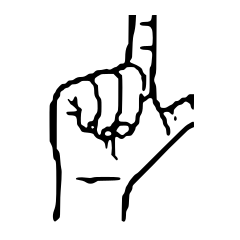
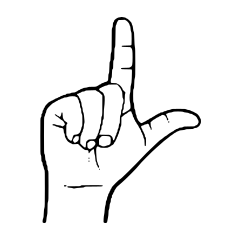
feat(signs): integracion de ilustracion oficial de L con pulgar completo y centrado perfecto

Changed region(s): [[0.1458, 0.0583, 0.8458, 0.9333]]

diff --git a/lengua-de-senas/src/lib/chileanVectorsData.ts b/lengua-de-senas/src/lib/chileanVectorsData.ts
@@ -102,11 +102,11 @@ export const CHILEAN_VECTOR_SIGNS: Record<string, ChileanVectorSign> = {
   },
   "L": {
     "char": "L",
-    "widthMm": 7.89,
-    "heightMm": 11.2,
-    "vectorWidth": 344,
-    "vectorHeight": 488,
-    "pathD": "M 191.850 33.293 L 191.500 66.586 188.699 71.984 C 185.536 78.079, 184.078 86.907, 184.031 100.250 C 183.994 110.698, 182.551 113, 176.039 113 C 172.744 113, 171.411 113.673, 168.117 117 C 165.661 119.481, 163.235 121, 161.729 121 C 160.394 121, 157.321 122.342, 154.900 123.982 C 150.146 127.204, 147.502 127.642, 143.586 125.857 C 141.613 124.958, 139.830 125.065, 135.223 126.357 C 132.003 127.261, 127.006 128, 124.119 128 C 118.212 128, 115.688 129.063, 111.849 133.166 C 109.706 135.456, 108.344 136, 104.747 136 C 101.578 136, 99.317 136.718, 96.898 138.492 C 91.217 142.658, 87.345 144, 81 144 C 74.655 144, 70.783 145.342, 65.102 149.508 C 62.623 151.326, 60.437 152, 57.016 152 C 52.812 152, 51.958 152.413, 48.737 156 C 45.629 159.463, 44.582 160, 40.944 160 C 37.119 160, 36.181 160.562, 30.516 166.250 C 26.901 169.880, 23.790 174.039, 23.095 176.170 C 22.436 178.189, 21.176 180.439, 20.294 181.170 C 17.845 183.201, 16 188.445, 16 193.373 C 16 196.963, 15.345 198.595, 12.571 201.915 C 10.004 204.987, 8.978 207.338, 8.491 211.260 C 8.134 214.142, 7.989 233.825, 8.171 255 L 8.500 293.500 11.912 300.500 C 15.049 306.937, 15.381 308.526, 16.042 320.253 C 16.738 332.618, 17.440 335.177, 20.711 337.278 C 23.515 339.079, 23.989 346.385, 23.994 387.914 C 24 433.869, 23.324 441.962, 18.407 454.770 C 14.248 465.604, 15.774 479.851, 21.109 479.985 C 22.399 480.017, 30.395 473.069, 31.630 470.843 C 32.593 469.106, 32.940 462.158, 32.973 444 C 32.997 430.525, 33.459 415.641, 33.999 410.925 C 34.539 406.209, 35.411 393.340, 35.936 382.326 C 36.723 365.795, 36.637 361.273, 35.438 356.401 C 34.640 353.155, 33.556 343.862, 33.029 335.750 C 32.054 320.757, 31.522 318.687, 27.351 313.673 L 25 310.847 25 255.358 C 25 215.570, 25.324 199.250, 26.147 197.684 C 26.777 196.483, 28.577 194.022, 30.147 192.215 C 32.231 189.816, 33 187.883, 33 185.047 C 33 179.557, 33.696 178.299, 38.105 175.821 C 40.247 174.617, 42 173.276, 42 172.842 C 42 171.678, 47.570 169, 49.990 169 C 51.139 169, 53.844 167.200, 56 165 C 59.554 161.375, 60.396 161, 64.993 161 C 70.394 161, 74.412 159.515, 79.898 155.492 C 82.902 153.289, 84.292 153.002, 91.898 153.015 C 101.349 153.032, 101.704 153.159, 104.431 157.500 C 105.467 159.150, 106.961 160.883, 107.751 161.352 C 110.314 162.873, 112 168.774, 112 176.224 C 112 184.987, 113.053 189.026, 116.716 194.312 C 119.238 197.951, 119.511 199.243, 119.850 209.152 C 120.316 222.765, 119.676 226.161, 115.815 230.558 C 113.910 232.728, 112.396 235.849, 111.862 238.711 C 110.751 244.657, 108.613 247, 104.300 247 C 99.319 247, 95.578 251.014, 96.317 255.566 C 97.140 260.637, 93.697 263.750, 90.939 260.427 C 90.221 259.562, 87.972 258.006, 85.940 256.970 C 83.909 255.933, 81.966 254.354, 81.623 253.461 C 80.315 250.051, 80.963 227.332, 82.472 223.721 C 83.835 220.460, 83.796 220.010, 81.946 217.658 C 80.847 216.261, 79.018 214.823, 77.883 214.463 C 74.867 213.506, 73 208.029, 73 200.143 C 73 188.587, 67.696 185.025, 64.469 194.413 C 62.357 200.557, 58.572 201.814, 55.179 197.500 C 54.097 196.125, 52.741 195, 52.165 195 C 50.044 195, 49.846 197.209, 51.778 199.324 C 52.872 200.521, 54.489 202.931, 55.372 204.679 C 56.255 206.428, 57.839 208.132, 58.892 208.466 C 61.243 209.212, 72 219.258, 72 220.707 C 72 223.428, 68.580 224.395, 58.776 224.447 C 50.438 224.491, 48.547 224.790, 47.649 226.205 C 46.793 227.553, 47.067 228.442, 48.958 230.455 C 50.908 232.531, 52.283 233.001, 56.424 233.006 C 59.216 233.009, 63.223 233.490, 65.330 234.075 C 70.162 235.416, 72 239.357, 72 248.373 C 72 254.177, 72.321 255.195, 75.263 258.716 C 77.057 260.864, 79.369 264.492, 80.400 266.778 C 82.620 271.702, 84.688 272.539, 96.863 273.444 C 104.937 274.044, 111 276.008, 111 278.023 C 111 278.557, 112.631 280.799, 114.624 283.005 C 117.243 285.905, 119.740 287.450, 123.635 288.582 C 129.220 290.206, 134.172 293.653, 136.242 297.358 C 136.900 298.536, 137.677 301.975, 137.969 305 C 138.419 309.656, 138.807 310.500, 140.500 310.500 C 142.230 310.500, 142.585 309.622, 143.133 304 C 143.884 296.291, 145.550 291.387, 147.697 290.563 C 150.463 289.501, 151.764 291.907, 152.413 299.280 C 153.250 308.800, 153.250 309.312, 152.436 317.711 L 151.737 324.923 156.118 329.357 C 158.528 331.796, 161.175 334.769, 162 335.964 C 163.014 337.432, 164.067 337.917, 165.250 337.461 C 167.900 336.439, 167.351 332.958, 163.993 329.493 L 160.987 326.391 160.518 306.584 C 160.225 294.221, 160.429 286.067, 161.060 284.889 C 162.453 282.285, 165.647 282.525, 169.182 285.500 C 173.721 289.319, 178.817 288.947, 182.864 284.500 C 185.699 281.384, 186.602 281, 191.090 281 C 193.863 281, 196.998 280.536, 198.058 279.969 C 201.054 278.366, 208 266.994, 208 263.693 C 208 261.550, 209.158 259.692, 212.394 256.642 C 216.773 252.513, 216.789 252.473, 217.304 244.184 C 217.725 237.396, 218.293 235.184, 220.394 232.152 C 223.379 227.846, 224.994 220.493, 225.015 211.114 C 225.033 203.460, 225.307 202.878, 230 200.523 C 231.925 199.557, 234.712 197.469, 236.194 195.883 C 239.246 192.616, 243.879 192.022, 246.429 194.571 C 247.333 195.475, 248 197.839, 248 200.137 C 248 204.475, 249.039 206.987, 252.609 211.279 C 253.880 212.808, 255.207 215.586, 255.557 217.452 C 255.959 219.593, 257.576 222.087, 259.940 224.209 C 263 226.956, 263.807 228.485, 264.348 232.569 C 264.815 236.087, 265.876 238.513, 267.931 240.764 C 270.108 243.146, 271.028 245.379, 271.547 249.531 C 272.074 253.747, 273.045 256.062, 275.542 259.050 C 278.305 262.357, 278.946 264.095, 279.491 269.749 C 280.308 278.224, 280.445 278.633, 282.921 279.958 C 286.202 281.714, 289.003 278.157, 288.989 272.250 C 288.971 264.558, 287.893 260.166, 285.414 257.687 C 282.537 254.810, 281 250.914, 281 246.500 C 281 241.951, 279.512 238.347, 275.965 234.307 C 274.334 232.450, 273 230.303, 273 229.537 C 273 226.760, 276.064 225, 280.897 225 C 284.723 225, 286.125 225.506, 288.076 227.592 C 293.795 233.706, 297 232.768, 297 224.979 C 297 220.576, 297.403 219.791, 302.149 214.944 C 306.261 210.745, 308.224 209.514, 311.899 208.829 C 315.233 208.208, 317.381 207.012, 319.699 204.486 C 323.531 200.311, 325.474 200.158, 330.610 203.627 C 335.326 206.812, 335.624 207.250, 336.408 212.152 C 337.062 216.240, 339.981 220, 342.500 220 C 343.778 220, 344 217.333, 344 202 L 344 184 338.164 184 C 332.621 184, 332.148 184.200, 328.737 188 C 325.525 191.578, 324.656 192, 320.496 192 C 316.658 192, 315.320 192.526, 312.833 195.013 C 308.932 198.914, 306.815 200, 303.113 200 C 300.790 200, 299.348 200.929, 296.857 204.029 C 295.076 206.245, 292.615 208.309, 291.388 208.617 C 290.161 208.925, 286.775 210.712, 283.862 212.589 C 279.566 215.357, 277.585 216, 273.355 216 C 266.781 216, 265 214.378, 265 208.389 C 265 204.523, 264.480 203.411, 261.137 200.134 L 257.274 196.348 256.761 180.424 C 256.289 165.753, 256.034 164.043, 253.524 158.691 C 250.473 152.186, 250.568 149.926, 254.333 139.500 C 256.461 133.607, 256.505 132.313, 256.802 66.750 L 257.104 -0 251.552 -0 C 246.163 -0, 246 0.081, 245.994 2.750 C 245.991 4.263, 245.520 7.187, 244.948 9.248 C 243.510 14.425, 240.086 16, 230.272 16 C 222.233 16, 218 17.552, 218 20.500 C 218 23.489, 222.228 25, 230.588 25 C 240.059 25, 243.005 26.599, 246.104 33.421 C 248.662 39.054, 248.916 67.942, 246.429 70.429 C 245.214 71.643, 242.635 72, 235.078 72 C 225.078 72, 219.540 73.151, 218.673 75.411 C 217.375 78.791, 222.483 81, 231.597 81 C 244.239 81, 247.737 84.671, 246.595 96.740 C 246.243 100.458, 245.684 106.632, 245.353 110.459 C 244.936 115.271, 244.095 118.307, 242.625 120.300 C 240.561 123.098, 240.508 123.979, 240.787 150.795 C 241.100 180.973, 240.862 182.599, 235.644 185.941 C 233.915 187.048, 231.684 188.527, 230.687 189.227 C 228.782 190.565, 228.594 190.416, 223.956 183.902 C 222.862 182.365, 221.815 181.924, 220.358 182.386 C 216.561 183.592, 215.853 187.339, 216.097 204.954 C 216.330 221.807, 215.773 225.106, 212.483 226.368 C 210.073 227.293, 208 233.329, 208 239.421 C 208 246.596, 206.459 249.725, 201.740 252.133 L 197.874 254.105 193.266 251.052 C 189.061 248.268, 187.933 248, 180.400 248 C 170.530 248, 169 246.984, 169 240.431 C 169 236.722, 169.607 235.334, 172.750 231.855 L 176.500 227.705 177.239 195.103 C 177.646 177.171, 177.704 157.432, 177.368 151.238 L 176.759 139.977 172.879 136.904 C 170.746 135.215, 169 133.264, 169 132.571 C 169 130.068, 172.623 128, 177.008 128 C 180.702 128, 181.841 127.472, 184.564 124.500 C 187.751 121.021, 187.821 121, 196.352 121 C 204.826 121, 204.977 121.044, 208.433 124.500 C 210.358 126.425, 212.414 128, 213.002 128 C 213.590 128, 214.985 130.137, 216.103 132.750 C 217.220 135.362, 219.059 138.488, 220.190 139.695 C 221.695 141.302, 222.066 142.600, 221.578 144.545 C 221.173 146.157, 221.576 148.941, 222.602 151.628 C 223.934 155.116, 224.169 157.955, 223.712 165.021 C 223.244 172.238, 223.424 174.282, 224.637 175.494 C 226.576 177.433, 227.337 177.391, 229.287 175.235 C 231.824 172.432, 232.949 165.433, 232.976 152.293 L 233 140.085 229.499 137.293 C 227.009 135.307, 225.564 133.008, 224.496 129.336 C 223.165 124.760, 222.300 123.698, 216.905 120.015 C 213.556 117.730, 207.370 114.653, 203.158 113.180 C 194.383 110.109, 193.309 108.278, 197.456 103.455 C 198.885 101.794, 200.030 99.186, 200.071 97.500 C 200.702 71.593, 202.012 51.713, 203.399 47 C 206.480 36.529, 208.034 26.601, 208.671 13.330 L 209.310 0 200.755 -0 L 192.200 -0 191.850 33.293 M 126.407 138.752 C 114.289 145.602, 113 146.887, 113 152.116 C 113 155.604, 113.591 156.785, 116.878 159.866 L 120.756 163.500 121.363 174.903 C 121.820 183.474, 122.409 186.920, 123.735 188.778 C 129.170 196.391, 128.989 195.560, 128.995 213.007 C 129.001 231.503, 128.422 234.616, 124.053 239.592 C 121.511 242.487, 120.990 243.943, 120.940 248.285 C 120.885 253.120, 120.112 258.354, 118.421 265.332 C 117.663 268.462, 121.256 277.501, 123.618 278.407 C 125.810 279.248, 128 276.096, 128 272.103 C 128 268.385, 131.105 264, 133.738 264 C 134.348 264, 136.250 262.819, 137.965 261.376 C 140.481 259.259, 141.763 258.862, 144.596 259.322 C 147.264 259.755, 148.576 259.424, 150.054 257.946 C 151.124 256.876, 152 255.515, 152 254.922 C 152 254.328, 153.730 252.130, 155.845 250.036 C 159.425 246.492, 159.733 245.722, 160.305 238.908 C 160.741 233.701, 161.509 230.852, 162.965 229.043 C 168.025 222.754, 167.827 224.184, 168.035 192.500 C 168.143 176, 168.180 159.228, 168.116 155.228 L 168 147.957 162.522 142.478 L 157.043 137 143.272 137.002 C 132.008 137.003, 128.937 137.322, 126.407 138.752 M 298.552 236.250 C 297.218 240.581, 297.193 242.879, 298.463 244.588 C 299.595 246.113, 300.249 246.277, 301.691 245.398 C 303.916 244.043, 304.418 241.230, 303.070 237.684 C 302.019 234.919, 299.234 234.035, 298.552 236.250 M 335.898 250.497 C 334.029 251.870, 330.501 253.954, 328.058 255.128 C 324.886 256.653, 308.736 272.067, 271.558 309.052 C 242.926 337.536, 217.925 362.406, 216 364.318 C 214.075 366.231, 211.100 368.496, 209.389 369.352 C 207.678 370.208, 204.978 372.519, 203.389 374.489 C 201.800 376.459, 198.863 379.967, 196.862 382.285 C 194.861 384.603, 192.505 388.228, 191.626 390.339 C 190.747 392.451, 188.949 395.460, 187.632 397.026 C 186.142 398.796, 184.823 402.218, 184.144 406.072 C 183.544 409.482, 182.368 413.223, 181.533 414.386 C 180.697 415.549, 179.223 417.598, 178.257 418.941 C 176.701 421.102, 176.462 424.605, 176.170 449.578 L 175.839 477.774 178.074 479.340 C 183.031 482.811, 186 477.335, 186 464.723 C 186 457.574, 186.334 456.160, 189.208 451.137 C 192.314 445.708, 192.433 445.068, 192.958 430.965 C 193.420 418.542, 193.794 415.990, 195.500 413.608 C 199.413 408.145, 200.997 404.450, 200.998 400.778 C 201 397.885, 201.794 396.216, 204.569 393.278 C 207.857 389.798, 237.761 359.728, 250.887 346.703 C 253.974 343.640, 261.900 335.423, 268.500 328.444 C 275.100 321.464, 283.127 313.222, 286.337 310.127 C 289.547 307.032, 299.672 297.207, 308.837 288.294 C 318.002 279.380, 327.075 270.594, 329 268.769 C 330.925 266.944, 335.080 264.337, 338.233 262.975 L 343.966 260.500 343.983 254.250 C 343.999 248.350, 343.868 248, 341.648 248 C 340.354 248, 337.767 249.124, 335.898 250.497 M 170.437 258.750 C 164.258 265.668, 161.892 271, 165.001 271 C 165.434 271, 167.258 272.373, 169.054 274.050 C 175.382 279.962, 178.685 280.458, 182.583 276.084 C 184.012 274.480, 186.452 272.641, 188.005 271.998 C 191.423 270.582, 193.367 266.358, 192.420 262.404 C 191.218 257.385, 190.395 257, 180.878 257 C 173.685 257, 171.703 257.332, 170.437 258.750 M 105.357 259.513 C 104.796 260.975, 106.531 264, 107.931 264 C 108.309 264, 109.474 263.374, 110.521 262.608 C 112.138 261.426, 112.224 260.975, 111.090 259.608 C 109.405 257.578, 106.120 257.524, 105.357 259.513 M 139 272 C 134.479 276.521, 137.788 281.509, 144.784 280.721 C 150.151 280.116, 152.489 278.086, 151.654 274.756 C 150.509 270.194, 142.541 268.459, 139 272 M 108.607 377.706 C 103.458 379.086, 101.469 379.121, 92.872 377.983 C 80.124 376.296, 69.500 377.439, 69.500 380.497 C 69.500 382.232, 70.594 382.661, 77.829 383.762 C 82.409 384.459, 87.509 385.811, 89.160 386.765 C 97.267 391.449, 98.779 391.997, 103.609 391.998 C 107.498 392, 110.126 391.224, 114.609 388.754 L 120.500 385.508 144.500 384.989 C 168.815 384.464, 173 383.804, 173 380.500 C 173 377.024, 169.090 376.504, 141.500 376.314 C 119.610 376.162, 113.385 376.426, 108.607 377.706"
+    "widthMm": 11.26,
+    "heightMm": 14.5,
+    "vectorWidth": 556,
+    "vectorHeight": 716,
+    "pathD": "M 279.500 7 C 278.400 7.473, 275.986 7.891, 274.136 7.930 C 267.774 8.063, 256 16.250, 256 20.541 C 256 21.723, 255.100 23.505, 254 24.500 C 252.372 25.973, 252 27.580, 252 33.131 C 252 38.187, 251.484 40.799, 250.004 43.226 C 248.099 46.349, 248.007 48.288, 248.004 85.300 C 248 120.088, 247.822 124.430, 246.279 127.300 C 244.977 129.723, 244.468 133.656, 244.185 143.500 C 243.889 153.811, 243.469 156.883, 242.156 158.352 C 240.782 159.888, 240.415 163.398, 240 178.953 C 239.609 193.596, 239.172 198.096, 238 199.504 C 236.906 200.819, 236.453 204.141, 236.326 211.769 C 236.163 221.605, 235.994 222.397, 233.506 224.993 C 231.798 226.776, 229.439 227.946, 226.852 228.293 C 224.648 228.589, 222.057 229.544, 221.094 230.415 C 220.131 231.287, 218.219 232, 216.846 232 C 215.472 232, 213.292 233.125, 212 234.500 C 210.708 235.875, 208.856 237, 207.885 237 C 206.913 237, 205.812 237.496, 205.437 238.102 C 205.062 238.708, 203.348 239.860, 201.628 240.662 C 199.908 241.464, 197.375 242.759, 196 243.540 C 194.170 244.580, 190.286 244.915, 181.500 244.791 C 172.099 244.659, 168.695 244.988, 165.782 246.311 C 163.737 247.240, 159.912 248.003, 157.282 248.007 C 154.193 248.011, 151.438 248.717, 149.500 250 C 147.850 251.093, 145.557 251.990, 144.405 251.993 C 143.253 251.997, 141.495 252.900, 140.500 254 C 139.505 255.100, 137.713 256, 136.519 256 C 135.325 256, 133.292 257.125, 132 258.500 C 130.708 259.875, 128.978 261, 128.154 261 C 127.331 261, 125.859 261.723, 124.883 262.606 C 123.699 263.677, 120.934 264.282, 116.589 264.419 C 112.106 264.561, 109.489 265.152, 108.207 266.313 C 106.894 267.501, 104.569 268, 100.346 268 C 95.255 268, 93.997 268.375, 92.019 270.480 C 90.346 272.261, 89.037 272.796, 87.375 272.379 C 85.923 272.015, 83.797 272.581, 81.663 273.899 C 79.793 275.055, 77.374 276, 76.287 276 C 75.200 276, 73.495 276.900, 72.500 278 C 71.505 279.100, 69.690 280, 68.467 280 C 67.245 280, 65.677 280.684, 64.983 281.521 C 64.289 282.357, 61.772 283.532, 59.391 284.132 C 57.009 284.732, 54.542 285.847, 53.908 286.611 C 53.274 287.375, 52.196 288, 51.512 288 C 50.829 288, 49.126 288.900, 47.727 290 C 46.329 291.100, 44.529 292, 43.727 292 C 42.926 292, 41.126 292.900, 39.727 294 C 38.329 295.100, 36.569 296, 35.817 296 C 33.609 296, 20 310.298, 20 312.619 C 20 313.758, 19.100 315.505, 18 316.500 C 16.900 317.495, 16 319.295, 16 320.500 C 16 321.705, 15.100 323.505, 14 324.500 C 12.606 325.761, 12 327.580, 12 330.500 C 12 333.486, 11.397 335.236, 9.901 336.589 C 8.252 338.082, 7.910 339.292, 8.304 342.233 C 8.685 345.073, 8.287 346.637, 6.653 348.714 C 4.502 351.450, 4.500 351.506, 4.500 413.020 C 4.500 469.973, 4.631 474.789, 6.250 477.259 C 7.597 479.315, 8 482.053, 8 489.150 C 8 497.250, 8.265 498.653, 10.181 500.692 C 11.778 502.393, 12.380 504.322, 12.432 507.904 C 12.476 510.897, 13.132 513.513, 14.124 514.647 C 15.016 515.666, 15.975 518.656, 16.255 521.291 C 16.534 523.925, 17.511 526.907, 18.425 527.917 C 19.938 529.589, 20.081 535.343, 20.023 592.265 C 19.967 646.719, 19.758 655.178, 18.404 657.893 C 17.296 660.113, 16.690 665.394, 16.295 676.255 C 15.920 686.589, 15.324 691.983, 14.446 693 C 13.734 693.825, 12.839 697.267, 12.458 700.650 C 11.801 706.473, 11.898 706.887, 14.276 708.445 C 17.127 710.313, 21.004 709.764, 23.347 707.160 C 24.308 706.092, 25.001 702.647, 25.288 697.500 C 25.534 693.100, 26.470 687.039, 27.368 684.032 C 28.624 679.825, 29 674.263, 29 659.908 C 29 644.670, 29.314 640.450, 30.712 636.876 C 32.244 632.958, 32.427 627.256, 32.462 582.357 C 32.497 535.973, 32.369 532.068, 30.750 530.278 C 29.433 528.821, 29 526.604, 29 521.306 C 29 515.784, 28.570 513.723, 27 511.727 C 25.575 509.916, 25 507.670, 25 503.921 C 25 500.311, 24.450 498.051, 23.250 496.726 C 21.949 495.291, 21.363 492.399, 20.968 485.467 C 20.578 478.611, 19.982 475.637, 18.718 474.241 C 17.133 472.489, 17.001 467.562, 17.007 410.421 C 17.013 350.316, 17.071 348.412, 19 345.500 C 20.093 343.850, 20.990 341.185, 20.993 339.579 C 20.997 337.972, 21.728 335.853, 22.618 334.869 C 23.508 333.886, 24.466 331.045, 24.747 328.557 C 25.027 326.068, 25.874 323.520, 26.628 322.894 C 27.383 322.267, 28 321.141, 28 320.390 C 28 318.530, 46.651 300, 48.523 300 C 49.347 300, 52.261 298.425, 55 296.500 C 57.739 294.575, 60.589 293, 61.335 293 C 62.080 293, 63.505 292.100, 64.500 291 C 65.495 289.900, 67.305 289, 68.520 289 C 69.736 289, 71.827 288.137, 73.168 287.082 C 74.509 286.027, 77.254 284.855, 79.268 284.478 C 81.281 284.100, 83.450 283.163, 84.087 282.395 C 84.804 281.531, 87.211 281, 90.411 281 C 93.603 281, 97.076 280.236, 99.500 279 C 104.590 276.405, 122.962 276.045, 125 278.500 C 125.685 279.325, 127 280, 127.922 280 C 130.228 280, 132 281.975, 132 284.545 C 132 285.725, 132.900 287.505, 134 288.500 C 135.315 289.690, 136 291.580, 136 294.020 C 136 296.216, 136.816 298.768, 138 300.273 C 139.492 302.169, 140 304.330, 140 308.773 C 140 313.216, 140.508 315.377, 142 317.273 C 143.558 319.254, 144 321.330, 144 326.673 C 144 331.619, 144.557 334.569, 146 337.261 C 147.795 340.611, 148 342.903, 148 359.668 C 148 374.836, 147.719 378.653, 146.505 379.994 C 145.683 380.903, 144.722 383.863, 144.370 386.573 C 144.019 389.283, 143.166 392.175, 142.477 393 C 141.787 393.825, 140.922 395.916, 140.555 397.646 C 139.418 402.998, 131.653 408, 124.480 408 C 122.226 408, 119.645 408.563, 118.744 409.250 C 116.980 410.597, 114.338 417.129, 113.033 423.372 C 111.564 430.403, 108.689 430.660, 101.957 424.363 C 98.376 421.013, 97 418.975, 97 417.018 C 97 415.529, 96.100 413.495, 95 412.500 C 93.140 410.816, 93 409.420, 93 392.500 C 93 375.449, 93.128 374.194, 95.044 372.460 C 97.895 369.880, 97.132 366.816, 93.143 364.824 C 88.842 362.676, 85.208 359.255, 84.399 356.592 C 84.049 355.441, 83.160 353.810, 82.422 352.966 C 81.556 351.975, 80.978 348.081, 80.790 341.966 C 80.523 333.263, 80.339 332.500, 78.500 332.500 C 76.822 332.500, 76.420 333.333, 76 337.684 C 75.665 341.161, 74.733 343.746, 73.170 345.533 L 70.840 348.199 68.606 346.099 C 67.377 344.945, 65.682 344, 64.841 344 C 63.999 344, 62.495 343.100, 61.500 342 C 60.505 340.900, 59.140 340, 58.467 340 C 57.795 340, 56.689 339.330, 56.009 338.511 C 55.329 337.692, 54.373 337.270, 53.883 337.572 C 52.922 338.166, 57.693 345, 59.069 345 C 60.482 345, 68.344 350.667, 71.437 353.915 C 73.052 355.612, 74.758 357, 75.228 357 C 76.215 357, 82.353 361.179, 82.803 362.158 C 82.969 362.520, 84.438 364.829, 86.067 367.288 C 89.445 372.387, 89.219 373.833, 84.480 377.448 C 80.567 380.432, 79.303 380.584, 76.854 378.368 C 75.682 377.308, 72.505 376.558, 67.776 376.225 C 63.506 375.925, 59.060 374.946, 57.015 373.857 C 52.040 371.206, 46 371.559, 46 374.500 C 46 375.993, 48.193 377, 51.447 377 C 52.703 377, 54.874 377.900, 56.273 379 C 57.671 380.100, 60.249 381, 62 381 C 63.751 381, 66.329 381.900, 67.727 383 C 69.449 384.354, 71.784 385, 74.961 385 C 81.709 385, 84.219 387.890, 84.380 395.848 C 84.463 399.973, 85.035 402.382, 86.250 403.724 C 87.354 404.944, 88.005 407.288, 88.015 410.079 C 88.023 412.510, 88.680 415.625, 89.476 417 C 90.271 418.375, 91.233 420.175, 91.613 421 C 93.939 426.042, 98.651 432.027, 101.090 433.037 C 102.654 433.685, 104.454 434.842, 105.089 435.608 C 105.725 436.373, 106.906 437, 107.715 437 C 108.523 437, 110.334 437.904, 111.740 439.010 C 114.046 440.824, 115.211 440.955, 123.723 440.357 L 133.151 439.694 141.434 447.934 C 152.146 458.590, 157.080 461.547, 162.664 460.658 C 166.723 460.011, 169 462.388, 169 467.270 C 169 471.921, 170.515 472.821, 172.388 469.283 C 174.914 464.509, 185.022 456.277, 186.918 457.449 C 187.347 457.715, 187.977 461.551, 188.318 465.974 C 188.660 470.398, 189.492 475.026, 190.168 476.258 C 190.845 477.491, 191.663 483.084, 191.987 488.687 C 192.426 496.288, 193.010 499.354, 194.288 500.766 C 195.306 501.890, 196 504.286, 196 506.674 C 196 509.420, 196.632 511.262, 198 512.500 C 199.100 513.495, 200 515.310, 200 516.533 C 200 519.068, 202.398 521.490, 203.956 520.527 C 205.668 519.469, 205.140 514.437, 203.126 512.614 C 202.096 511.682, 201.009 509.102, 200.711 506.882 C 200.413 504.661, 199.526 502.092, 198.740 501.172 C 197.771 500.038, 196.925 494.512, 196.112 484 C 194.250 459.930, 194.567 453.445, 197.786 449.750 C 199.785 447.455, 200.634 447.530, 206.212 450.500 C 210.425 452.743, 212.070 453, 222.204 452.996 C 231.729 452.993, 234.013 452.679, 236.774 450.996 C 238.575 449.898, 240.643 449, 241.369 449 C 242.096 449, 243.494 448.111, 244.477 447.026 C 245.460 445.940, 247.217 444.764, 248.382 444.413 C 251.320 443.528, 256 438.966, 256 436.987 C 256 436.086, 257.125 434.292, 258.500 433 C 259.875 431.708, 261 429.890, 261 428.961 C 261 428.031, 261.900 426.126, 263 424.727 C 264.100 423.329, 265 421.304, 265 420.227 C 265 419.151, 265.900 417.126, 267 415.727 C 268.100 414.329, 269 412.166, 269 410.921 C 269 409.676, 269.713 407.869, 270.585 406.906 C 271.456 405.943, 272.431 403.209, 272.750 400.831 C 273.069 398.452, 274.154 395.155, 275.161 393.503 C 276.168 391.851, 276.994 389.036, 276.996 387.246 C 276.998 385.457, 277.900 382.314, 279 380.261 C 280.718 377.055, 281 374.619, 281 362.969 L 281 349.408 287.929 343.204 C 291.740 339.792, 295.699 337, 296.726 337 C 297.754 337, 300.312 335.240, 302.412 333.090 C 308.425 326.932, 316 326.597, 316 332.488 C 316 333.721, 316.900 335.874, 318 337.273 C 319.119 338.695, 320 341.330, 320 343.253 C 320 345.420, 320.739 347.359, 322 348.500 C 323.100 349.495, 324 351.305, 324 352.520 C 324 353.736, 324.900 355.874, 326 357.273 C 327.100 358.671, 328 360.462, 328 361.253 C 328 362.043, 328.900 363.505, 330 364.500 C 331.100 365.495, 332 366.875, 332 367.565 C 332 368.256, 333.800 371.098, 336 373.881 C 338.200 376.664, 340 379.677, 340 380.576 C 340 381.476, 341.125 383.548, 342.500 385.182 C 343.875 386.816, 345 388.739, 345 389.454 C 345 390.170, 345.675 391.315, 346.500 392 C 347.325 392.685, 348 394.470, 348 395.967 C 348 397.465, 348.900 399.505, 350 400.500 C 351.100 401.495, 352.003 403.253, 352.007 404.405 C 352.010 405.557, 352.907 407.850, 354 409.500 C 355.093 411.150, 355.991 413.850, 355.997 415.500 C 356.003 417.150, 356.906 419.973, 358.004 421.774 C 359.625 424.433, 360 426.814, 360 434.442 C 360 444.550, 360.488 447, 362.500 447 C 364.605 447, 365 444.484, 365 431.073 C 365 419.580, 364.801 418.130, 363 416.500 C 361.685 415.310, 361 413.420, 361 410.980 C 361 408.784, 360.184 406.232, 359 404.727 C 357.900 403.329, 357 401.313, 357 400.247 C 357 399.182, 356.100 397.495, 355 396.500 C 353.900 395.505, 353 393.695, 353 392.480 C 353 391.264, 352.159 389.197, 351.130 387.885 C 348.565 384.613, 347.559 379.598, 349.206 378.290 C 349.917 377.724, 352.142 376.965, 354.150 376.604 C 356.157 376.243, 358.349 375.284, 359.022 374.474 C 359.695 373.663, 361.556 373, 363.158 373 C 364.760 373, 367.111 372.318, 368.382 371.485 C 370.499 370.098, 370.917 370.147, 373.347 372.058 C 375.109 373.444, 376 375.102, 376 376.996 C 376 378.578, 377.113 381.169, 378.500 382.818 C 379.992 384.591, 381 387.041, 381 388.894 C 381 390.988, 381.489 392, 382.500 392 C 384.494 392, 384.552 384.269, 382.575 382.079 C 381.686 381.094, 381.037 377.731, 380.851 373.139 L 380.553 365.778 386.026 360.921 C 389.037 358.249, 392.129 356.049, 392.897 356.032 C 393.665 356.014, 396.216 354.425, 398.565 352.500 C 400.915 350.575, 403.704 349, 404.763 349 C 405.823 349, 407.505 348.100, 408.500 347 C 409.495 345.900, 411.287 345, 412.481 345 C 413.675 345, 415.664 343.922, 416.901 342.605 C 418.787 340.598, 419.826 340.295, 423.325 340.734 C 427.470 341.253, 432 344.275, 432 346.519 C 432 347.163, 432.900 348.505, 434 349.500 C 435.212 350.597, 436 352.580, 436 354.533 C 436 358.330, 438.024 360.576, 439.824 358.776 C 441.620 356.980, 441.228 353.516, 439 351.500 C 437.900 350.505, 437 348.470, 437 346.980 C 437 345.489, 436.056 343.070, 434.903 341.604 C 433.214 339.457, 433.043 338.653, 434.026 337.469 C 434.696 336.661, 436.035 336, 437 336 C 437.965 336, 439.264 335.387, 439.886 334.637 C 440.508 333.888, 444.002 332.969, 447.650 332.595 C 451.298 332.221, 455.219 331.259, 456.364 330.458 C 459.469 328.283, 489.092 328.359, 492.436 330.550 C 493.743 331.407, 498.088 332.345, 502.151 332.649 C 507.039 333.015, 510.407 333.835, 512.210 335.099 C 513.700 336.145, 516.486 337, 518.400 337 C 520.315 337, 522.188 337.496, 522.563 338.102 C 522.938 338.708, 524.652 339.864, 526.372 340.671 C 528.092 341.478, 530.683 342.780, 532.129 343.565 C 535.032 345.142, 540 351.163, 540 353.105 C 540 353.785, 540.715 355.133, 541.589 356.098 C 543.775 358.513, 545.064 364.782, 543.910 367.383 C 541.492 372.830, 539.219 375.516, 536.780 375.806 C 535.365 375.975, 533.416 376.987, 532.449 378.056 C 530.831 379.844, 529.240 380.001, 512.595 380.007 C 496.220 380.013, 494.215 380.202, 491.500 382 C 489.497 383.326, 486.807 383.989, 483.405 383.993 C 479.695 383.998, 477.848 384.511, 476.609 385.880 C 475.673 386.913, 473.187 388.034, 471.084 388.371 C 468.981 388.707, 466.696 389.661, 466.007 390.491 C 465.319 391.321, 464.214 392, 463.552 392 C 462.890 392, 461.292 393.125, 460 394.500 C 458.708 395.875, 457.050 397, 456.315 397 C 455.581 397, 452.739 398.575, 450 400.500 C 447.261 402.425, 444.727 404, 444.368 404 C 444.009 404, 441.345 406.025, 438.448 408.500 C 435.551 410.975, 432.560 413, 431.802 413 C 431.043 413, 427.381 415.700, 423.664 419 C 419.946 422.300, 416.256 425, 415.465 425 C 414.673 425, 408.370 430.453, 401.459 437.118 C 394.548 443.782, 385.230 452.670, 380.753 456.868 C 370.272 466.693, 362.432 474.545, 352.606 485.056 C 326.081 513.431, 278.787 560, 276.496 560 C 273.988 560, 248 585.966, 248 588.472 C 248 589.692, 247.100 591.505, 246 592.500 C 244.900 593.495, 244 595.080, 244 596.020 C 244 596.961, 243.100 598.874, 242 600.273 C 240.900 601.671, 240 603.687, 240 604.753 C 240 605.818, 239.100 607.505, 238 608.500 C 236.842 609.548, 236 611.580, 236 613.326 C 236 614.985, 235.259 617.161, 234.354 618.161 C 233.449 619.161, 232.486 622.347, 232.213 625.240 C 231.937 628.176, 230.897 631.554, 229.859 632.885 C 228.571 634.537, 228 636.928, 228 640.667 C 228 643.635, 227.279 647.737, 226.398 649.782 C 225.447 651.989, 224.477 658.377, 224.012 665.500 C 223.582 672.100, 222.743 679.020, 222.148 680.878 C 221.553 682.736, 220.767 689.268, 220.400 695.395 C 219.868 704.294, 220.014 706.766, 221.123 707.687 C 223.458 709.625, 227.369 710.086, 230 708.734 C 231.984 707.714, 232.633 706.422, 233.142 702.475 C 233.496 699.739, 234.508 694.350, 235.392 690.500 C 236.277 686.651, 237 679.547, 237 674.715 C 237 668.487, 237.448 665.245, 238.541 663.578 C 239.487 662.134, 240.297 657.807, 240.640 652.363 C 241.044 645.954, 241.725 642.750, 243.099 640.790 C 244.445 638.873, 245 636.361, 245 632.195 C 245 627.488, 245.420 625.930, 247.099 624.411 C 248.737 622.928, 249.089 621.703, 248.704 618.831 C 248.306 615.860, 248.672 614.717, 250.605 612.901 C 251.922 611.664, 253 609.675, 253 608.481 C 253 607.287, 253.900 605.495, 255 604.500 C 256.100 603.505, 257 601.690, 257 600.467 C 257 599.245, 257.701 597.663, 258.558 596.952 C 259.415 596.241, 260.708 594.273, 261.433 592.580 C 263.245 588.343, 268.724 582.791, 280.500 573.257 C 292.762 563.331, 336.723 519.193, 340.517 513 C 344.312 506.803, 386.933 463.930, 401 452.160 C 407.325 446.867, 415.875 439.331, 420 435.412 C 424.125 431.493, 429.315 427.153, 431.534 425.767 C 433.752 424.382, 438.027 421.055, 441.034 418.374 C 446.687 413.333, 452.464 409, 453.530 409 C 453.866 409, 456.276 407.200, 458.885 405 C 461.494 402.800, 464.318 401, 465.159 401 C 466.001 401, 467.505 400.100, 468.500 399 C 469.495 397.900, 471.158 397, 472.195 397 C 473.233 397, 475.300 396.142, 476.790 395.094 C 478.776 393.697, 481.839 393.058, 488.257 392.704 C 493.917 392.391, 497.884 391.651, 499.472 390.610 C 501.375 389.363, 504.552 389, 513.557 389 C 523.670 389, 525.516 388.740, 527.727 387 C 529.319 385.748, 531.784 385, 534.320 385 C 537.083 385, 539.095 384.320, 540.648 382.861 C 541.900 381.684, 543.919 380.222, 545.134 379.611 C 546.348 379, 547.774 377.150, 548.302 375.500 C 548.829 373.850, 549.990 371.665, 550.880 370.645 C 552.026 369.333, 552.500 366.837, 552.500 362.121 C 552.500 356.718, 552.073 354.908, 550.250 352.591 C 549.013 351.017, 548 348.996, 548 348.098 C 548 346.126, 539.337 336, 537.650 336 C 536.992 336, 534.125 334.466, 531.277 332.590 C 528.430 330.715, 524.615 328.857, 522.800 328.460 C 520.985 328.064, 518.427 326.898, 517.115 325.870 C 515.721 324.777, 513.123 324, 510.862 324 C 508.734 324, 505.314 323.100, 503.261 322 C 499.839 320.166, 497.619 320, 476.500 320 C 455.381 320, 453.161 320.166, 449.739 322 C 447.686 323.100, 444.318 324.003, 442.254 324.007 C 440.189 324.010, 437.150 324.907, 435.500 326 C 433.850 327.093, 431.107 327.990, 429.405 327.993 C 427.587 327.997, 425.563 328.825, 424.500 330 C 423.239 331.394, 421.420 332, 418.500 332 C 415.580 332, 413.761 332.606, 412.500 334 C 411.505 335.100, 409.705 336, 408.500 336 C 407.295 336, 405.495 336.900, 404.500 338 C 403.505 339.100, 401.915 340, 400.967 340 C 400.020 340, 398.627 340.745, 397.872 341.655 C 397.118 342.565, 395.150 343.942, 393.500 344.715 C 388.963 346.840, 386.208 348.502, 384.178 350.339 C 383.169 351.252, 381.444 352, 380.346 352 C 379.247 352, 377.292 353.125, 376 354.500 C 374.708 355.875, 373.050 357, 372.315 357 C 371.581 357, 368.739 358.575, 366 360.500 C 363.261 362.425, 360.402 364, 359.645 364 C 358.889 364, 357.197 364.831, 355.885 365.848 C 354.573 366.864, 352.191 368.015, 350.591 368.406 C 348.011 369.038, 347.079 368.522, 342.341 363.843 C 339.404 360.942, 337 357.724, 337 356.692 C 337 355.660, 336.100 353.671, 335 352.273 C 333.831 350.787, 333 348.216, 333 346.088 C 333 344.084, 332.217 341.332, 331.261 339.973 C 330.199 338.463, 329.290 334.681, 328.925 330.260 C 328.530 325.463, 327.742 322.373, 326.593 321.102 C 325.261 319.631, 324.805 317.099, 324.632 310.227 C 324.469 303.773, 323.930 300.543, 322.703 298.670 C 321.237 296.432, 321 293.177, 321 275.258 C 321 257.045, 321.219 254.136, 322.750 251.973 C 324.189 249.939, 324.555 246.838, 324.808 234.500 C 325.034 223.458, 325.562 218.313, 326.808 215 C 328.313 210.997, 328.498 205.148, 328.484 162 C 328.471 123.638, 328.180 112.559, 327.088 109 C 326.181 106.043, 325.501 96.578, 325.104 81.401 C 324.626 63.115, 324.191 57.931, 323.016 56.517 C 322.118 55.436, 321.276 51.431, 320.882 46.367 C 320.507 41.544, 319.578 37.005, 318.688 35.647 C 317.840 34.352, 316.821 31.564, 316.425 29.452 C 315.871 26.497, 314.114 24.043, 308.803 18.806 C 305.008 15.063, 301.094 12, 300.106 12 C 299.118 12, 297.544 11.154, 296.609 10.120 C 295.515 8.912, 293.047 8.065, 289.704 7.751 C 286.842 7.481, 283.825 7.009, 283 6.700 C 282.175 6.392, 280.600 6.527, 279.500 7 M 281.798 16.746 L 271.097 17.067 268.210 21.344 C 266.622 23.697, 265.045 27.337, 264.704 29.435 C 264.364 31.532, 263.418 33.986, 262.602 34.887 C 261.363 36.256, 261.068 42.361, 260.810 72.013 C 260.534 103.555, 260.305 107.856, 258.750 110.700 C 257.264 113.417, 256.999 116.666, 256.993 132.200 C 256.987 148.780, 256.800 150.782, 255 153.500 C 253.272 156.108, 253.012 158.209, 253.007 169.595 C 253.001 181.243, 252.787 182.882, 251.076 184.431 C 249.397 185.951, 249.110 187.866, 248.826 199.485 C 248.565 210.144, 248.170 213.165, 246.842 214.648 C 245.046 216.655, 243.936 228.514, 245.336 230.750 C 245.865 231.596, 248.963 232, 254.924 232 C 261.961 232, 264.209 232.371, 266.115 233.848 C 267.427 234.864, 269.680 235.983, 271.122 236.334 C 274.918 237.260, 285 249.260, 285 252.853 C 285 254.055, 287.046 256.651, 290 259.195 C 295.027 263.524, 295.974 265.626, 293.853 267.747 C 293.093 268.507, 292.672 274.435, 292.603 285.340 C 292.514 299.506, 292.257 302.055, 290.750 303.722 C 289.400 305.215, 289 307.431, 289 313.421 C 289 319.670, 288.610 321.680, 287 323.727 C 285.097 326.147, 284.158 333.825, 285.590 335.257 C 286.185 335.851, 294.074 332.002, 296.953 329.713 C 297.804 329.036, 300.147 327.650, 302.159 326.633 C 304.171 325.616, 307.306 323.248, 309.125 321.371 C 312.386 318.006, 312.427 317.848, 312.124 309.832 C 311.954 305.363, 311.187 299.634, 310.419 297.103 C 308.456 290.637, 308.506 270.175, 310.494 266.364 C 311.533 264.372, 311.990 260.391, 311.994 253.288 C 311.998 245.785, 312.505 241.672, 313.901 237.788 C 315.355 233.743, 315.972 228.269, 316.526 214.500 C 317.276 195.846, 317.232 187.184, 316.379 185.804 C 316.105 185.362, 308.089 185, 298.563 185 C 285.414 185, 280.980 184.681, 280.146 183.676 C 277.768 180.810, 281.041 180, 295 180 C 303.674 180, 309.004 179.596, 309.716 178.884 C 310.330 178.270, 311.838 177.258, 313.068 176.634 C 318.075 174.094, 319.244 167.898, 319.213 144.050 C 319.183 121.492, 318.353 116.114, 314.226 111.750 C 311.660 109.036, 311.463 109, 299.063 108.986 C 285.476 108.972, 282 108.465, 282 106.500 C 282 104.510, 285.500 104.028, 300.050 104.014 C 309.239 104.004, 313.986 103.614, 314.800 102.800 C 315.656 101.944, 315.998 95.707, 315.994 81.050 C 315.989 64.166, 315.703 59.965, 314.392 57.500 C 313.499 55.819, 312.560 50.874, 312.258 46.256 C 311.921 41.108, 311.208 37.588, 310.359 36.883 C 309.612 36.263, 309 34.861, 309 33.767 C 309 30.341, 303.001 22.338, 298.008 19.102 C 295.375 17.396, 293.058 16.096, 292.860 16.212 C 292.662 16.329, 287.684 16.569, 281.798 16.746 M 234.852 238.577 C 233.985 239.444, 231.301 240.403, 228.888 240.708 C 226.474 241.013, 223.825 241.844, 223 242.554 C 222.175 243.263, 220.150 244.173, 218.500 244.575 C 216.850 244.976, 214.427 246.136, 213.115 247.152 C 211.803 248.169, 210.186 249, 209.520 249 C 208.051 249, 205 252.225, 205 253.778 C 205 255.030, 211.040 260.988, 212.317 260.995 C 214.065 261.005, 220 266.326, 220 267.883 C 220 268.789, 220.984 271.323, 222.186 273.515 C 224.177 277.145, 224.351 278.737, 224.137 291.399 C 224.009 299.044, 223.258 308.944, 222.470 313.399 C 221.622 318.191, 221.029 328.175, 221.018 337.842 C 221.002 352.654, 220.813 354.423, 219 356.727 C 217.393 358.770, 217 360.784, 217 366.980 C 217 373.420, 216.671 374.988, 215 376.500 C 213.415 377.935, 213 379.580, 213 384.433 C 213 389.318, 212.596 390.902, 211 392.268 C 209.670 393.407, 209 395.218, 209 397.676 C 209 400.079, 208.249 402.170, 206.853 403.656 C 202.824 407.945, 205.074 408.575, 223.688 408.369 C 240.137 408.188, 240.580 408.238, 244.203 410.695 C 249.163 414.059, 251.399 417.587, 252 423 C 252.508 427.570, 254.525 429.084, 255.999 426 C 256.393 425.175, 257.397 423.150, 258.229 421.500 C 259.061 419.850, 260.037 416.858, 260.397 414.850 C 260.758 412.843, 261.716 410.651, 262.526 409.978 C 263.337 409.305, 264 407.419, 264 405.785 C 264 404.152, 264.900 401.671, 266 400.273 C 267.188 398.762, 268 396.216, 268 394 C 268 391.872, 268.804 389.245, 269.871 387.885 C 271.133 386.275, 271.879 383.324, 272.165 378.807 C 272.444 374.380, 273.165 371.475, 274.294 370.228 C 275.693 368.682, 276 366.283, 276 356.906 C 276 347.381, 276.334 344.847, 278 341.739 C 279.444 339.045, 280 336.097, 280 331.138 C 280 325.784, 280.441 323.709, 282 321.727 C 283.558 319.746, 284 317.670, 284 312.327 C 284 307.381, 284.557 304.431, 286 301.739 C 288.604 296.880, 288.736 287.485, 286.250 283.973 C 284.905 282.073, 284.461 279.223, 284.330 271.667 C 284.209 264.666, 283.739 261.354, 282.698 260.167 C 281.894 259.250, 280.907 257.375, 280.504 256 C 279.287 251.844, 275.944 246.760, 271.135 241.750 L 266.575 237 251.502 237 C 239.111 237, 236.148 237.281, 234.852 238.577 M 176.125 256.749 C 161.609 257.016, 159.466 257.275, 157.241 259.025 C 155.644 260.281, 153.198 261, 150.520 261 C 147.580 261, 145.764 261.603, 144.500 263 C 143.505 264.100, 141.818 265, 140.753 265 C 139.687 265, 137.703 265.875, 136.344 266.944 C 134.985 268.013, 133.298 268.668, 132.596 268.399 C 131.895 268.129, 130.776 268.565, 130.110 269.368 C 129.118 270.563, 129.629 271.502, 132.950 274.574 C 135.304 276.752, 137 279.236, 137 280.506 C 137 281.707, 137.900 283.505, 139 284.500 C 140.100 285.495, 141 287.367, 141 288.659 C 141 289.950, 141.900 292.686, 143 294.739 C 144.259 297.088, 145 300.381, 145 303.626 C 145 306.627, 145.827 310.604, 146.978 313.141 C 148.169 315.766, 148.965 319.699, 148.978 323.027 C 148.992 326.550, 149.608 329.423, 150.676 330.948 C 151.679 332.380, 152.705 336.784, 153.231 341.920 C 153.715 346.639, 154.475 354.100, 154.920 358.500 C 155.506 364.286, 155.387 367.192, 154.491 369 C 153.809 370.375, 153.044 375.207, 152.792 379.738 C 152.469 385.517, 151.835 388.525, 150.666 389.816 C 149.750 390.829, 149 393.240, 149 395.174 C 149 397.420, 148.278 399.344, 147 400.500 C 145.900 401.495, 145 403.484, 145 404.920 C 145 406.355, 144.135 409.144, 143.078 411.116 C 141.551 413.965, 141.104 417.111, 140.904 426.401 L 140.653 438.100 147.550 445.050 C 157.347 454.923, 160 454.351, 160 442.365 C 160 433.155, 160.862 431.010, 166.117 427.145 C 170.248 424.107, 170.739 424, 180.510 424 C 190.288 424, 190.716 423.906, 193.313 421.195 C 194.791 419.653, 196 417.472, 196 416.350 C 196 415.228, 196.900 413.495, 198 412.500 C 199.100 411.505, 200 409.470, 200 407.980 C 200 406.489, 200.900 404.126, 202 402.727 C 203.235 401.157, 204 398.670, 204 396.227 C 204 393.784, 204.765 391.297, 206 389.727 C 207.531 387.781, 208 385.670, 208 380.727 C 208 375.920, 208.481 373.659, 209.881 371.878 C 211.401 369.946, 211.835 367.348, 212.144 358.334 C 212.440 349.669, 212.901 346.767, 214.209 345.321 C 215.938 343.411, 216.239 334.018, 216.055 287.806 L 216 274.111 209.444 267.556 C 205.221 263.332, 202.081 261, 200.619 261 C 199.370 261, 197.292 259.875, 196 258.500 C 194.708 257.125, 193.392 256.101, 193.076 256.223 C 192.759 256.346, 185.131 256.583, 176.125 256.749 M 441 364.441 C 441 365.784, 441.399 367.129, 441.887 367.430 C 443.248 368.271, 445.114 365.459, 444.410 363.627 C 443.438 361.094, 441 361.676, 441 364.441 M 214.461 412.928 C 213.339 413.396, 210.695 415.886, 208.586 418.461 L 204.750 423.142 204.750 432.464 C 204.750 442.787, 205.120 443.990, 208.309 444.022 C 209.514 444.034, 211.625 444.924, 213 446 C 216.302 448.583, 223.475 448.593, 229.141 446.022 C 231.538 444.934, 234.653 444.034, 236.063 444.022 C 237.579 444.009, 239.788 442.787, 241.472 441.029 C 244.085 438.302, 244.351 437.322, 244.715 429.068 C 245.343 414.833, 243.501 413.075, 227.332 412.477 C 221.374 412.256, 215.582 412.459, 214.461 412.928 M 122.900 415.706 C 115.222 424.087, 114.289 427.813, 118.589 432.923 C 121.459 436.334, 123.136 436.747, 125 434.500 C 125.685 433.675, 127.087 433, 128.116 433 C 129.165 433, 131.327 431.150, 133.037 428.790 C 135.701 425.112, 136.050 423.879, 135.794 419.040 L 135.500 413.500 130.480 413.206 C 126.068 412.947, 125.149 413.250, 122.900 415.706 M 169.750 433.139 L 165 437.208 165 444.181 C 165 450.596, 165.240 451.394, 168.002 454.156 C 170.566 456.719, 171.479 457.054, 174.252 456.449 C 181.628 454.839, 192.434 444.249, 192.569 438.500 C 192.616 436.483, 191.651 434.435, 189.623 432.250 C 186.851 429.262, 186.119 429.003, 180.554 429.035 C 174.941 429.067, 174.154 429.366, 169.750 433.139 M 169 488.500 C 169 490.056, 169.567 491, 170.500 491 C 171.433 491, 172 490.056, 172 488.500 C 172 486.944, 171.433 486, 170.500 486 C 169.567 486, 169 486.944, 169 488.500 M 169 498.500 C 169 500.056, 169.567 501, 170.500 501 C 171.433 501, 172 500.056, 172 498.500 C 172 496.944, 171.433 496, 170.500 496 C 169.567 496, 169 496.944, 169 498.500 M 205 526 C 205 527.111, 205.667 528, 206.500 528 C 207.333 528, 208 527.111, 208 526 C 208 524.889, 207.333 524, 206.500 524 C 205.667 524, 205 524.889, 205 526 M 85.380 581.452 C 84.561 583.585, 85.797 585, 88.477 585 C 91.802 585, 94 584.005, 94 582.500 C 94 579.878, 86.341 578.947, 85.380 581.452 M 145.823 580.709 C 144.351 580.934, 142.608 581.767, 141.951 582.559 C 140.976 583.733, 136.695 584, 118.808 584 L 96.861 584 97.180 586.250 C 97.474 588.315, 98.157 588.544, 105.500 589.041 C 109.900 589.338, 114.713 590.187, 116.195 590.926 C 118.414 592.033, 119.652 592.045, 123.195 590.993 C 125.563 590.290, 133.191 589.441, 140.147 589.107 C 150.196 588.625, 153.191 588.141, 154.726 586.750 C 156.472 585.168, 159.440 585, 185.638 585 C 208.580 585, 215.008 584.715, 216.489 583.632 C 220.735 580.527, 215.357 579.994, 181.316 580.150 C 163.267 580.232, 147.295 580.484, 145.823 580.709"
   },
   "M": {
     "char": "M",

diff --git a/lengua-de-senas/src/lib/chileanImagesData.ts b/lengua-de-senas/src/lib/chileanImagesData.ts
@@ -90,10 +90,10 @@ export const CHILEAN_LETTER_ASSETS: Record<string, ChileanLetterAsset> = {
   },
   "L": {
     "letter": "L",
-    "width": 7.89,
-    "height": 11.2,
-    "aspectRatio": 0.7045,
[1 lines of base64/hex data omitted]
+    "width": 11.26,
+    "height": 14.5,
+    "aspectRatio": 0.7765,
[1 lines of base64/hex data omitted]
   },
   "M": {
     "letter": "M",
